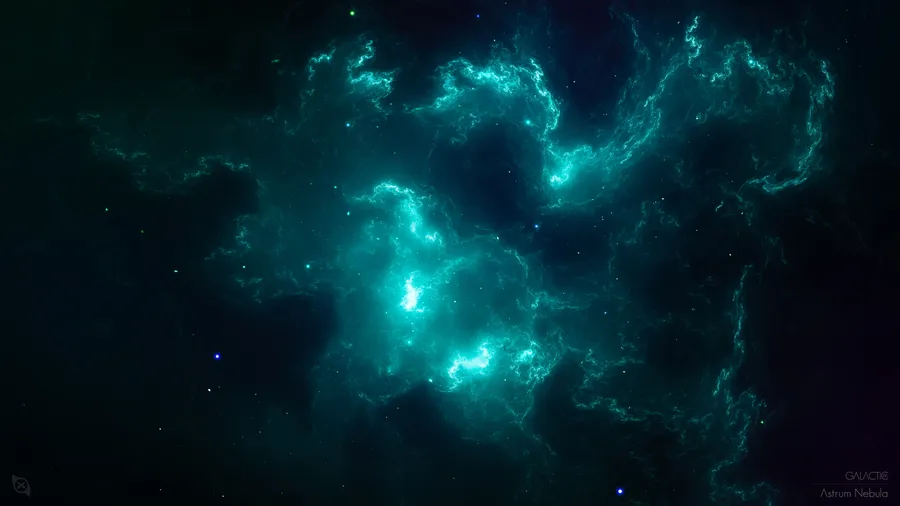
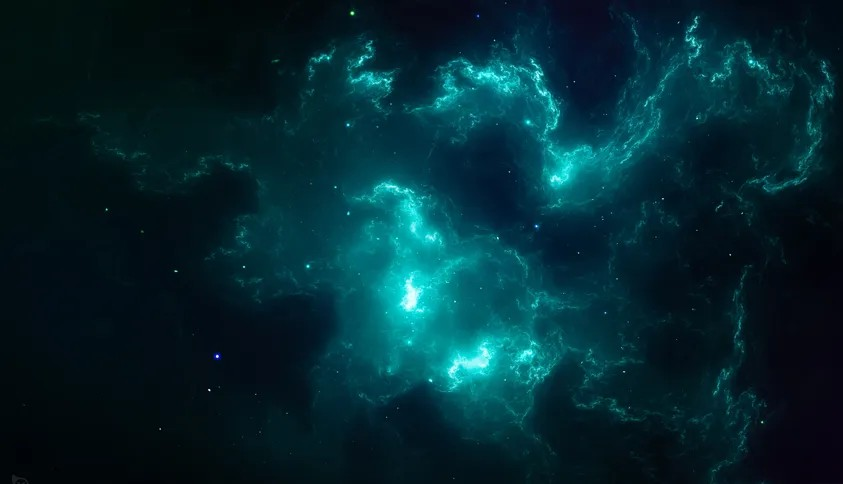
Updated background img and nav styling

diff --git a/src/app/navigation/navigation.component.scss b/src/app/navigation/navigation.component.scss
@@ -1,11 +1,39 @@
+// Colors
 $teal: #29c9b3;
 $black: #282525;
 $white: #ffffff;
 
+$active-color: #5ac8fa;  // bright lime green for active tab
+$inactive-color: rgba(41, 201, 179, 0.75);
+
+$cyan-color: #00fff7;
+$cyan-glow: rgba(0, 255, 247, 0.7);
+
+// Glowing text mixin
+@mixin glowing-text($color, $glow) {
+  color: $color;
+  text-shadow:
+    0 0 5px $glow,
+    0 0 10px $glow,
+    0 0 20px $glow,
+    0 0 40px $glow;
+}
+
+// Set dark background for the entire page
+body, html {
+  margin: 0;
+  padding: 0;
+  background-color: #000; // dark space background
+  font-family: "Segoe UI", Tahoma, Geneva, Verdana, sans-serif;
+  color: $white;
+  height: 100%;
+}
+
+// Toolbar container
 .main-toolbar {
   background-color: $black;
   height: 100px;
-  padding: 0;
+  padding: 0 2rem;
   display: flex;
   justify-content: center;
   align-items: center;
@@ -15,40 +43,54 @@ $white: #ffffff;
   box-shadow: 0 4px 8px rgba(0, 0, 0, 0.4);
 }
 
+// Nav wrapper
 .nav-wrapper {
   display: flex;
   flex-direction: column;
   align-items: center;
 }
 
+// Site title with glowing effect
 .site-title {
-  color: $teal;
+  @include glowing-text($cyan-color, $cyan-glow);
   font-size: 2.4rem;
   font-weight: bold;
   margin-bottom: 1rem;
   letter-spacing: 1px;
 }
 
+// Navigation links container
 .nav-links {
   display: flex;
   gap: 2rem;
 }
 
+// Nav links style with glowing text and hover effect
 .nav-links a {
-  color: $white;
+  color: $inactive-color;
   font-size: 1.3rem;
   font-weight: 600;
   text-transform: uppercase;
   border-bottom: 2px solid transparent;
-  transition: all 0.3s ease;
+  transition: color 0.3s ease, filter 0.3s ease, text-shadow 0.3s ease, box-shadow 0.3s ease;
+  filter: brightness(0.9);
+  text-shadow: none;
+  position: relative;
 }
 
 .nav-links a:hover {
   color: $teal;
-  border: 2px solid $teal;
+  filter: brightness(1.1);
+  text-shadow:
+    0 0 8px $teal,
+    0 0 16px $teal,
+    0 0 24px rgba(41, 201, 179, 0.6);
+  border-bottom: 2px solid transparent;
 }
 
 .active-link {
-  color: $teal !important;
-  border-bottom: 2px solid $teal;
+  color: $active-color !important;
+  font-weight: 700;
+  filter: brightness(5);
+
 }
